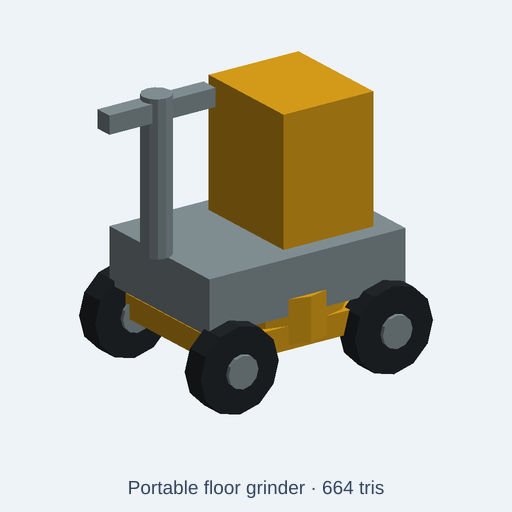
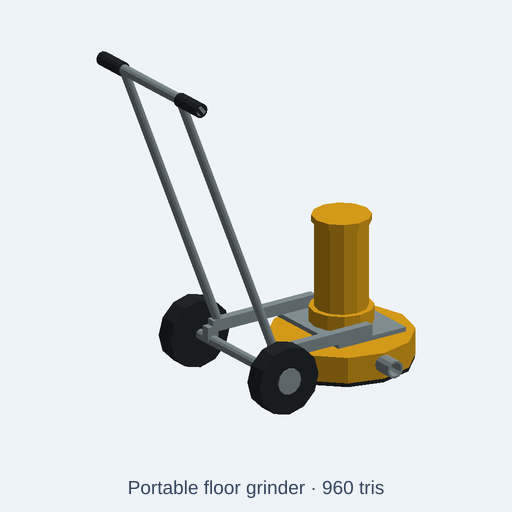
fix(catalog): restore floor grinder circular deck and walk-behind layout

diff --git a/tests/integration/catalog/floorGrinderFidelity.test.ts b/tests/integration/catalog/floorGrinderFidelity.test.ts
@@ -1,0 +1,108 @@
+// SPDX-License-Identifier: MIT
+// Regression for #1331: the source promised a circular grinder but exported a
+// four-wheel cart with a rectangular shroud and a disc 100 mm above the floor.
+import { beforeAll, describe, expect, it } from 'vitest';
+import { readFileSync } from 'node:fs';
+import { resolve } from 'node:path';
+import { NodeIO } from '@gltf-transform/core';
+import { initOcct } from '../../../src/kernel/backends/occt/occtBackend';
+import { buildCatalogAssetWithGlb } from '../../../src/agent/catalog/buildCatalog';
+import { runAndExport } from '../../../src/agent/script-runtime/export';
+import { glbTriangles } from '../../../scripts/lib/glbSoftwareRender';
+
+const root = resolve(import.meta.dirname, '../../..');
+const sourcePath = 'catalog/kits/construction-equipment/portable-floor-grinder.kcad.ts';
+const file = resolve(root, sourcePath);
+type Point = [number, number, number];
+
+async function verifyGeometry(glb: Uint8Array, scale: number) {
+  // Individual mesh positions remain in source millimetres; the scene root
+  // supplies the metre scale and Z-up -> Y-up transform for GLB consumers.
+  const doc = await new NodeIO().readBinary(glb);
+  const parts = new Map<string, Point[]>();
+  for (const node of doc.getRoot().listNodes()) {
+    const mesh = node.getMesh();
+    if (!mesh) continue;
+    const points: Point[] = [];
+    for (const primitive of mesh.listPrimitives()) {
+      const positions = primitive.getAttribute('POSITION')!;
+      for (let i = 0; i < positions.getCount(); i++) {
+        points.push(positions.getElement(i, []) as Point);
+      }
+    }
+    parts.set(node.getName(), points);
+  }
+  const range = (name: string, axis: number, low: number, high: number) => {
+    expect(parts.has(name), name).toBe(true);
+    const points = parts.get(name)!;
+    expect(Math.min(...points.map(p => p[axis])), name).toBeCloseTo(low * scale, 2);
+    expect(Math.max(...points.map(p => p[axis])), name).toBeCloseTo(high * scale, 2);
+  };
+  // Separate disc and open-bottom circular cup, not one opaque rectangular box.
+  range('grinding-head', 0, -79, 259);
+  range('grinding-head', 1, -169, 169);
+  range('grinding-head', 2, 0, 12);
+  range('dust-shroud', 0, -100, 280);
+  range('dust-shroud', 1, -190, 190);
+  range('dust-shroud', 2, 14, 84);
+  const cup = parts.get('dust-shroud')!;
+  const lowerRing = cup.filter(p => Math.abs(p[2] / scale - 14) < 0.01);
+  expect(lowerRing.length).toBeGreaterThan(12);
+  const radii = lowerRing.map(p => Math.hypot(p[0] / scale - 90, p[1] / scale));
+  expect(Math.min(...radii)).toBeCloseTo(178, 2);
+  expect(Math.max(...radii)).toBeCloseTo(190, 2);
+  // Every lower-edge vertex belongs to a true circular inner/outer wall.
+  for (const radius of radii) expect(Math.min(Math.abs(radius - 178), Math.abs(radius - 190))).toBeLessThan(0.01);
+  // The cavity rises to Z=80 and leaves a 4 mm roof, independently of its label.
+  expect(cup.some(p => Math.abs(p[2] / scale - 80) < 0.01)).toBe(true);
+
+  expect([...parts.keys()].filter(name => /^rear-wheel-/.test(name))).toHaveLength(2);
+  for (const side of [-1, 1]) {
+    range(`rear-wheel-${side}`, 0, -322, -138);
+    range(`rear-wheel-${side}`, 2, 0, 184);
+    // Wheel front X=-138, shroud rear X=-100: 38 mm geometric clearance.
+    const wheelMax = Math.max(...parts.get(`rear-wheel-${side}`)!.map(p => p[0]));
+    const deckMin = Math.min(...cup.map(p => p[0]));
+    expect((deckMin - wheelMax) / scale).toBeCloseTo(38, 2);
+    const post = parts.get(`handle-post-${side}`)!;
+    expect(Math.min(...post.map(p => p[0])) / scale).toBeLessThan(-500);
+    expect(Math.max(...post.map(p => p[2])) / scale).toBeGreaterThan(895);
+    range(`handle-grip-${side}`, 2, 877, 915);
+  }
+  expect(parts.has('dust-outlet')).toBe(true);
+  const triangles = await glbTriangles(glb);
+  expect(triangles.length).toBeLessThanOrEqual(2200);
+  expect(Math.min(...triangles.flatMap(t => t.v.map(p => p[1])))).toBeCloseTo(0, 6);
+  // Reject nonfinite or zero-area exported faces, not just a nonblank PNG.
+  for (const { v: [a, b, c] } of triangles) {
+    for (const point of [a, b, c]) expect(point.every(Number.isFinite)).toBe(true);
+    const u = b.map((x, i) => x - a[i]);
+    const v = c.map((x, i) => x - a[i]);
+    expect(Math.hypot(u[1] * v[2] - u[2] * v[1], u[2] * v[0] - u[0] * v[2], u[0] * v[1] - u[1] * v[0])).toBeGreaterThan(1e-12);
+  }
+}
+
+beforeAll(async () => { await initOcct(); }, 30000);
+describe('portable floor grinder scene fidelity', () => {
+  it('exports a circular open-bottom shroud, floor-contact disc and two rear wheels', async () => {
+    const { asset, glb } = await buildCatalogAssetWithGlb(root, sourcePath);
+    expect(asset.license).toBe('CC0-1.0');
+    expect(asset.category).toBe('prop');
+    expect(asset.description).toMatch(/not a manufacturing drawing/i);
+    expect(asset.params.find(p => p.name === 'scale')).toMatchObject({ default: 1, min: 0.7, max: 1.3 });
+    expect(Object.keys(asset.presets)).toEqual(['weathered', 'highVisibility']);
+    expect(asset.stats.minUpM).toBeCloseTo(0, 6);
+    await verifyGeometry(glb, 1);
+  }, 40000);
+  it('retains floor contact, cavity, handle and wheel clearance at both scale limits', async () => {
+    const source = readFileSync(file, 'utf8');
+    for (const scale of [0.7, 1.3]) {
+      const code = source.replace("param('scale', 1", `param('scale', ${scale}`);
+      expect(code).not.toBe(source);
+      const exported = await runAndExport({ code, fileName: 'portable-floor-grinder.kcad.ts', scriptDir: resolve(file, '..'),
+        format: 'glb', options: { format: 'glb', style: 'lowpoly', lowpoly: { maxTriangles: 2200 } } });
+      expect(exported.diagnostics.filter(d => d.severity === 'error')).toEqual([]);
+      await verifyGeometry(exported.bytes, scale);
+    }
+  }, 80000);
+});

diff --git a/catalog/kits/construction-equipment/portable-floor-grinder.kcad.ts b/catalog/kits/construction-equipment/portable-floor-grinder.kcad.ts
@@ -1,10 +1,10 @@
 // SPDX-License-Identifier: CC0-1.0
-// Concrete surface grinder with circular shroud, handlebar and motor enclosure.
+// Illustrative walk-behind single-disc grinder, not a manufacturing drawing.
 meta({
   name: "portable-floor-grinder",
   license: 'CC0-1.0',
   title: "Portable floor grinder",
-  description: "Concrete surface grinder with circular shroud, handlebar and motor enclosure. Material controls: equipment enamel paint, tire and grip rubber, exposed structural steel; weathered and highVisibility presets.",
+  description: "Illustrative CC0 low-poly walk-behind floor grinder with a circular open-bottom dust shroud, separate floor-contact disc, two rear wheels and inclined handlebar. Not a manufacturing drawing or performance/safety model. Material controls: equipment enamel paint, tire and grip rubber, exposed structural steel; weathered and highVisibility presets.",
   tags: ['construction equipment', 'roadworks', 'jobsite', 'low poly', 'CC0'],
   kit: 'construction-equipment',
   category: 'prop',
@@ -23,23 +23,47 @@ presets({
 });
 const p = assembly('portable-floor-grinder');
 const add = (name, shape, finish = equipmentPaintColor) => p.part(name, shape.scale(scale).color(finish));
-add('floor-wheel-0--1', cylinder(54, 92, 12).rotateX(90).translate(-184.8, -150.6, 92), tireRubberColor);
-add('floor-wheel-0--1-hub--1', cylinder(8.64, 34.96, 10).rotateX(90).translate(-184.8, -208.92, 92), structuralSteelColor);
-add('floor-wheel-0--1-hub-1', cylinder(8.64, 34.96, 10).rotateX(90).translate(-184.8, -146.28, 92), structuralSteelColor);
-add('floor-wheel-0-1', cylinder(54, 92, 12).rotateX(90).translate(-184.8, 204.6, 92), tireRubberColor);
-add('floor-wheel-0-1-hub--1', cylinder(8.64, 34.96, 10).rotateX(90).translate(-184.8, 146.28, 92), structuralSteelColor);
-add('floor-wheel-0-1-hub-1', cylinder(8.64, 34.96, 10).rotateX(90).translate(-184.8, 208.92, 92), structuralSteelColor);
-add('floor-wheel-1--1', cylinder(54, 92, 12).rotateX(90).translate(178.2, -150.6, 92), tireRubberColor);
-add('floor-wheel-1--1-hub--1', cylinder(8.64, 34.96, 10).rotateX(90).translate(178.2, -208.92, 92), structuralSteelColor);
-add('floor-wheel-1--1-hub-1', cylinder(8.64, 34.96, 10).rotateX(90).translate(178.2, -146.28, 92), structuralSteelColor);
-add('floor-wheel-1-1', cylinder(54, 92, 12).rotateX(90).translate(178.2, 204.6, 92), tireRubberColor);
-add('floor-wheel-1-1-hub--1', cylinder(8.64, 34.96, 10).rotateX(90).translate(178.2, 146.28, 92), structuralSteelColor);
-add('floor-wheel-1-1-hub-1', cylinder(8.64, 34.96, 10).rotateX(90).translate(178.2, 208.92, 92), structuralSteelColor);
-add('machine-frame', box(462, 336, 120, true).translate(0, 0, 220), structuralSteelColor);
-add('motor-housing', box(211.2, 252, 281.2, true).translate(79.2, 0, 420.6), equipmentPaintColor);
-add('handle-post', cylinder(333, 32, 8).translate(-237.6, 0, 280), structuralSteelColor);
-add('handle-bar', box(250, 40, 40, true).translate(-237.6, 0, 582.4), structuralSteelColor);
-add('grinding-head', cylinder(95, 180, 12).translate(0, 0, 100), equipmentPaintColor);
-add('dust-shroud', box(409.2, 336, 50, true).translate(0, 0, 115), equipmentPaintColor);
+// Source coordinates are millimetres, Z up. The 338 mm disc touches the
+// ground; its circular shroud is open below and does not become a solid cart.
+const deckX = 90;
+add('grinding-head', cylinder(12, 169, 32).translate(deckX, 0, 0), structuralSteelColor);
+const shroud = cylinder(70, 190, 32)
+  .subtract(cylinder(68, 178, 32).translate(0, 0, -2));
+add('dust-shroud', shroud.translate(deckX, 0, 14));
+const skirt = cylinder(14, 188, 32)
+  .subtract(cylinder(16, 176, 32).translate(0, 0, -1));
+add('dust-skirt', skirt.translate(deckX, 0, 3), tireRubberColor);
+
+// One rear axle, not four cart wheels. The nearest tire remains 38 mm
+// behind the circular shroud at default scale; both tires touch the floor.
+add('rear-axle', cylinder(448, 14, 12).rotateX(90).translate(-230, 224, 92), structuralSteelColor);
+for (const side of [-1, 1]) {
+  const startY = side < 0 ? -170 : 224;
+  add(`rear-wheel-${side}`, cylinder(54, 92, 24).rotateX(90).translate(-230, startY, 92), tireRubberColor);
+  add(`wheel-hub-${side}`, cylinder(8, 35, 12).rotateX(90).translate(-230, side < 0 ? -220 : 228, 92), structuralSteelColor);
+  add(`frame-rail-${side}`, box(320, 24, 32, true).translate(-70, side * 125, 130), structuralSteelColor);
+  add(`axle-support-${side}`, box(32, 24, 38, true).translate(-230, side * 125, 111), structuralSteelColor);
+}
+add('motor-mount', box(210, 274, 12, true).translate(deckX, 0, 108), structuralSteelColor);
+add('gearbox', cylinder(70, 85, 24).translate(deckX, 0, 84));
+add('motor-housing', cylinder(232, 70, 24).translate(deckX, 0, 154));
+add('motor-cover', cylinder(18, 78, 24).translate(deckX, 0, 386));
+// Hollow side-facing hose stub identifies the dust-extraction interface.
+add('dust-outlet', cylinder(65, 24, 16).subtract(cylinder(67, 18, 16).translate(0, 0, -1))
+  .rotateX(90).translate(deckX, -175, 55), structuralSteelColor);
+
+// Two inclined posts join the rear rails to a transverse walking-height grip.
+const rise = 750, reach = 290;
+const postLength = Math.sqrt(rise * rise + reach * reach);
+const postAngle = -Math.atan2(reach, rise) * 180 / Math.PI;
+for (const side of [-1, 1]) {
+  add(`handle-post-${side}`, cylinder(postLength, 12, 12).rotateY(postAngle)
+    .translate(-210, side * 125, 146), structuralSteelColor);
+}
+add('handle-bar', cylinder(440, 14, 12).rotateX(90).translate(-500, 220, 896), structuralSteelColor);
+for (const side of [-1, 1]) {
+  add(`handle-grip-${side}`, cylinder(95, 19, 12).rotateX(90)
+    .translate(-500, side < 0 ? -125 : 220, 896), tireRubberColor);
+}
 
 return p.model();
